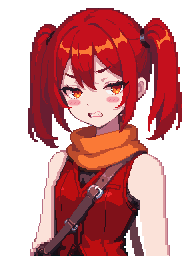
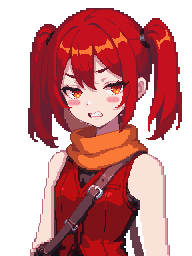
Jin: fill the see-through gap under her jaw, and give her noses back
The dark ground showed through a hole between her hair and her jaw, which read
as a dark block on her lower-left cheek; it is shadowed neck now on all seven
faces. The white nose highlights are back as they were drawn.

diff --git a/game/art/NOTES.md b/game/art/NOTES.md
@@ -43,4 +43,4 @@
 ## 這一輪（小人和場景提高精細度）
 
 - **婕焰的兩個姿勢和 `bun` 造型**：整張重新生成，用她一般那張立繪當畫風參考圖（IPAdapter），再放大兩倍重繪、縮回 192 × 256。`laugh` 是一手抱肚子、一手指著對方，眼睛沒有完全笑瞇；`panic` 的手偏灰，髮圈變成藍色（一般那張是深色）。`bun` 是新的一整張（不是只換頭髮），所以臉和衣服的細節和一般那張不完全一樣。
-- **婕焰臉頰的雜色塊**（使用者中途指出）：她每一張臉的鼻子都是一塊白色加一片淡粉紅，臉頰上還有零星幾格只差一點點的膚色。七張都清成乾淨的膚色，鼻子改成一到兩格的小陰影；臉紅、眼睛、嘴、大片的陰影（超過 30 格的）都不動。之後每張新臉也照這樣清。
+- **婕焰左下臉頰的色塊**（使用者中途指出）：下巴左下方和頭髮之間有一塊透明的洞，遊戲的深色地面從那裡透出來，看起來像臉頰上的色塊。七張臉都把這個洞補成陰影中的脖子（`#9b5459`）。鼻子的白色亮點使用者覺得不錯，保留原樣（中途一度改成小陰影，已改回）。
